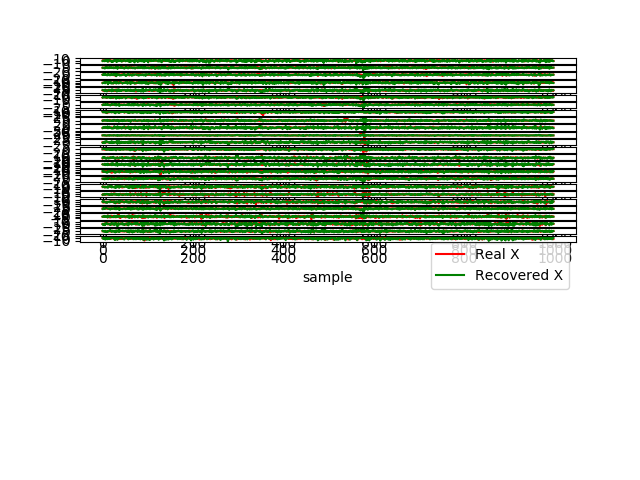
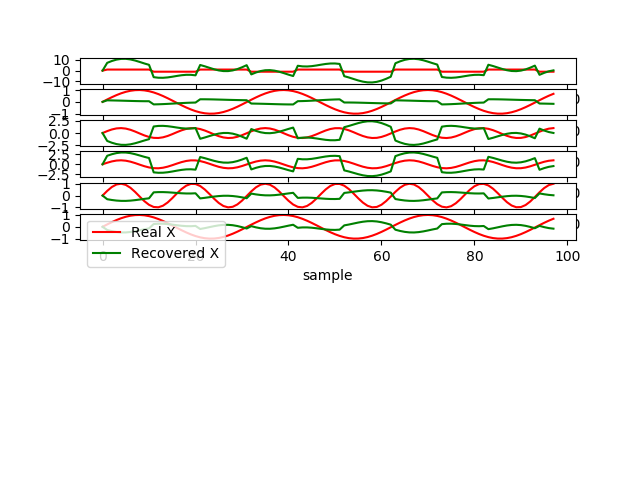
L

Changed region(s): [[0.0625, 0.0938, 0.9062, 0.5938], [0.4688, 0.5625, 0.5625, 0.5938]]

diff --git a/Python_kode/Error_Method.py b/Python_kode/Error_Method.py
@@ -1,0 +1,91 @@
+# -*- coding: utf-8 -*-
+"""
+Created on Thu Mar 12 10:45:22 2020
+
+@author: Laura
+
+Different Error Methods
+"""
+import numpy as np
+from sklearn.metrics import mean_squared_error
+
+def MSE1(real,estimate):
+    """
+    Mean Squared Error (MSE)
+    ----------------------------------------------------------------------
+    Info:
+        The difference between the estimated values from the observed values
+        The MSE is always positive (because of the squared).
+        A small value -- close to zero -- is a good estimation
+    Input:
+        real: observation matrix
+        estimate: calculated matrix
+    
+    Output: MSE
+    """
+    error = np.zeros(len(real))
+    for i in range(len(real)):
+        error[i] = np.average((real[i] - estimate[i])**2)
+    return error
+    
+def MSE2(real,estimate):
+    """
+    Mean Squared Error (MSE)
+    ----------------------------------------------------------------------
+    Info:
+        The difference between the estimated values from the observed values
+        The MSE is always positive (because of the squared).
+        A small value -- close to zero -- is a good estimation
+    Input:
+        real: observation matrix
+        estimate: calculated matrix
+    
+    Output: MSE
+    """
+    error1 = ((real - estimate)**2).mean()
+    error2 = (np.square(real - estimate)).mean()
+    return error1, error2
+    
+def MSE_all_errors(real,estimate):
+    """
+    Mean Squared Error (MSE) - m or n errors
+    ----------------------------------------------------------------------
+    Info:
+        A small value -- close to zero -- is a good estimation.
+        The inputs must be transponet to perform the action rowwise
+    Input:
+        real: observation matrix
+        estimate: calculated matrix
+    
+    Output: MSE
+    """
+    error = mean_squared_error(real.T, estimate.T, multioutput='raw_values')
+    return error
+
+def MSE_one_error(real,estimate):
+    """
+    Mean Squared Error (MSE) - One Error
+    ----------------------------------------------------------------------
+    Info:
+        A small value -- close to zero -- is a good estimation.
+        The inputs must be transponet to perform the action rowwise
+    Input:
+        real: observation matrix
+        estimate: calculated matrix
+    
+    Output: MSE
+    """
+    error = mean_squared_error(real.T, estimate.T)
+    return error
+
+
+#y_true = np.array([[0.5, 1],[-1, 1],[7, -6]])
+#y_pred = np.array([[0, 2],[-1, 2],[8, -5]])
+#
+#mse1 = MSE1(y_true,y_pred)
+#mse2 = MSE2(y_true,y_pred)
+#mse3 = MSE3(y_true,y_pred)
+
+
+
+

diff --git a/Python_kode/data_generation.py b/Python_kode/data_generation.py
@@ -6,6 +6,7 @@ Created on Tue Nov 19 10:19:05 2019
 """
 import numpy as np
 from sklearn.datasets import make_sparse_coded_signal
+from sklearn.metrics import mean_squared_error
 from scipy import signal
 
 # consider Y = AX 
@@ -15,19 +16,51 @@ from scipy import signal
 # k -> number og non-zeros entries in x, aktive sources 
 # n_samples -> number of samples 
 
-def norm_mse(X_real,X_rec):
-    X_real1 = X_real/np.max(X_real)
-    X_rec1 = X_rec/np.max(X_rec)
+def MSE_all_errors(real,estimate):
+    """
+    Mean Squared Error (MSE) - m or n errors
+    ----------------------------------------------------------------------
+    Info:
+        A small value -- close to zero -- is a good estimation.
+        The inputs must be transponet to perform the action rowwise
+    Input:
+        real: observation matrix
+        estimate: calculated matrix
     
-#    X_real = X_real/np.linalg.norm(X_real, ord=2, axis=0, keepdims=True)
-#    X_rec = X_rec/np.linalg.norm(X_rec, ord=2, axis=0, keepdims=True)
-    
-    temp = np.sum(((X_real1-X_rec1)**2),axis=0)/len(X_rec1)
+    Output: MSE
+    """
+    error = mean_squared_error(real.T, estimate.T, multioutput='raw_values')
+    return error
 
-#    if np.any(temp == 0) or np.any(np.isnan(temp)):
-#        raise SystemExit('temp = 0')
-    nmse = np.average(temp)
-    return nmse
+def MSE_one_error(real,estimate):
+    """
+    Mean Squared Error (MSE) - One Error
+    ----------------------------------------------------------------------
+    Info:
+        A small value -- close to zero -- is a good estimation.
+        The inputs must be transponet to perform the action rowwise
+    Input:
+        real: observation matrix
+        estimate: calculated matrix
+    
+    Output: MSE
+    """
+    error = mean_squared_error(real.T, estimate.T)
+    return error
+#
+#def norm_mse(X_real,X_rec):
+#    X_real1 = X_real/np.max(X_real)
+#    X_rec1 = X_rec/np.max(X_rec)
+#    
+##    X_real = X_real/np.linalg.norm(X_real, ord=2, axis=0, keepdims=True)
+##    X_rec = X_rec/np.linalg.norm(X_rec, ord=2, axis=0, keepdims=True)
+#    
+#    temp = np.sum(((X_real1-X_rec1)**2),axis=0)/len(X_rec1)
+#
+##    if np.any(temp == 0) or np.any(np.isnan(temp)):
+##        raise SystemExit('temp = 0')
+#    nmse = np.average(temp)
+#    return nmse
 
 def random_sparse_data(n_measurement, n_source, n_nonzero, n_samples):
     """

diff --git a/Python_kode/Baseline_Algorithm.py b/Python_kode/Baseline_Algorithm.py
@@ -8,21 +8,20 @@ Created on Wed Dec  4 12:24:55 2019
 import numpy as np
 import matplotlib.pyplot as plt
 import data_generation
-from sklearn.metrics import mean_squared_error
 import CovDL
 import MSBL
 
 
-np.random.seed(154)
+np.random.seed(123)
 
 # choose datageneration method ...
 """ DATA GENERATION - AUTO-REGRESSIVE SIGNAL """
 
-m = 4                         # number of sensors
-n = 6                         # number of sources
-k = 6                         # max number of non-zero coef. in rows of X
+m = 8                         # number of sensors
+n = 16                         # number of sources
+k = 7                         # max number of non-zero coef. in rows of X
 L = 1000                 # number of sampels
-k_true = 6 
+k_true = 7 
 
 Y_real, A_real, X_real = data_generation.generate_AR_v2(n, m, L, k_true) 
 
@@ -70,7 +69,7 @@ for i in range(len(Ys)): # loop over segments
     
 
 #    cov_seg = cov_seg_max(n,L)
-    cov_seg = 8
+    cov_seg = 10
 #    cov_seg = 75
 
    
@@ -88,15 +87,16 @@ for i in range(len(Ys)): # loop over segments
     X_real = X_real.T[:-2]
     X_real = X_real.T
     
-    mse = data_generation.norm_mse(X_real, X_rec)
-    print("Representation error (without noise): ", mse)   
-
+    Amse = data_generation.MSE_one_error(A_real, A_rec)
+    print("Representation error (without noise) for A: ", Amse)   
+    
+    Xmse = data_generation.MSE_one_error(X_real, X_rec)
+    print("Representation error (without noise) for X: ", Xmse) 
 
 """ PLOTS """
  
 #plt.figure(2)
-##plt.title('Comparison of each active source in X and corresponding reconstruction')
-#
+#plt.title('m = 8, n = 16, k = 7, true k = 7, L = 1000, covseg = 10')
 #nr_plot=0
 #for i in range(len(X_real.T[0])):
 #    if np.any(X_real[i]!=0) or np.any(X_rec[i]!=0):
@@ -111,10 +111,4 @@ for i in range(len(Ys)): # loop over segments
 #plt.legend()
 #plt.xlabel('sample')
 #plt.show
-#plt.savefig('case.png')
-#
-#
-
-
-
-
+#plt.savefig('13-03-2020_3.png')

diff --git a/Python_kode/CovDL.py b/Python_kode/CovDL.py
@@ -138,5 +138,5 @@ def Cov_DL2(Y, A, X, m, n, cov_seg, L, k):
     a_new = res.x
     A_rec = np.reshape(a_new,(m,n)) 
  
-    A_err = data_generation.norm_mse(A,A_rec)
+    A_err = data_generation.MSE_one_error(A,A_rec)
     return A_rec, A_err
